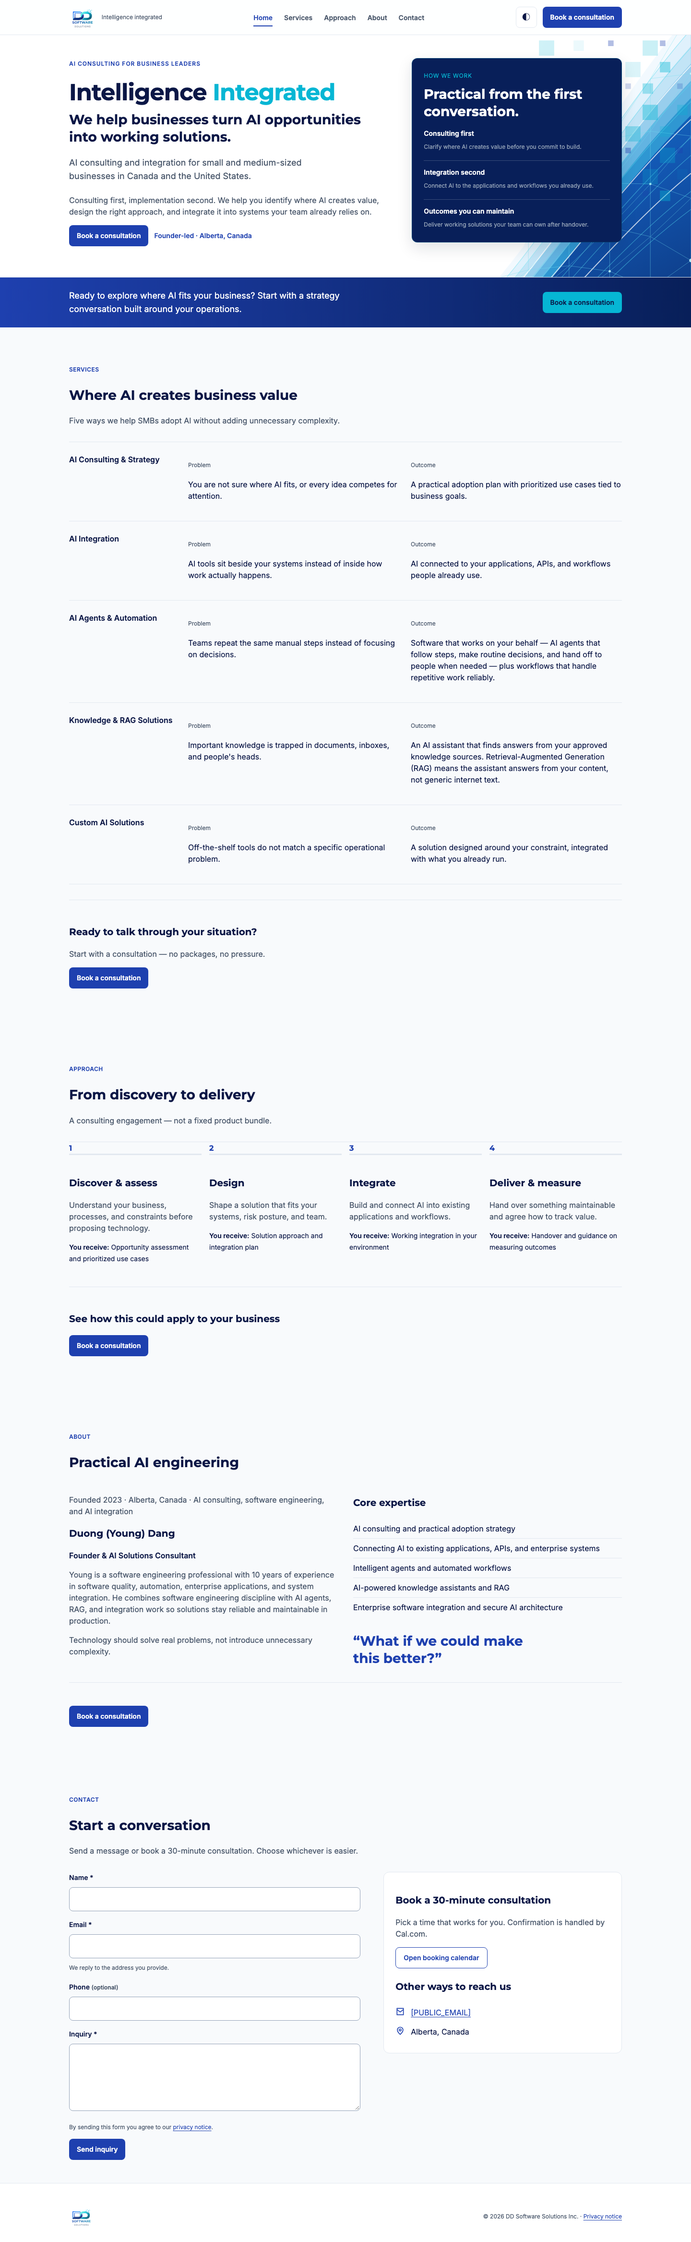
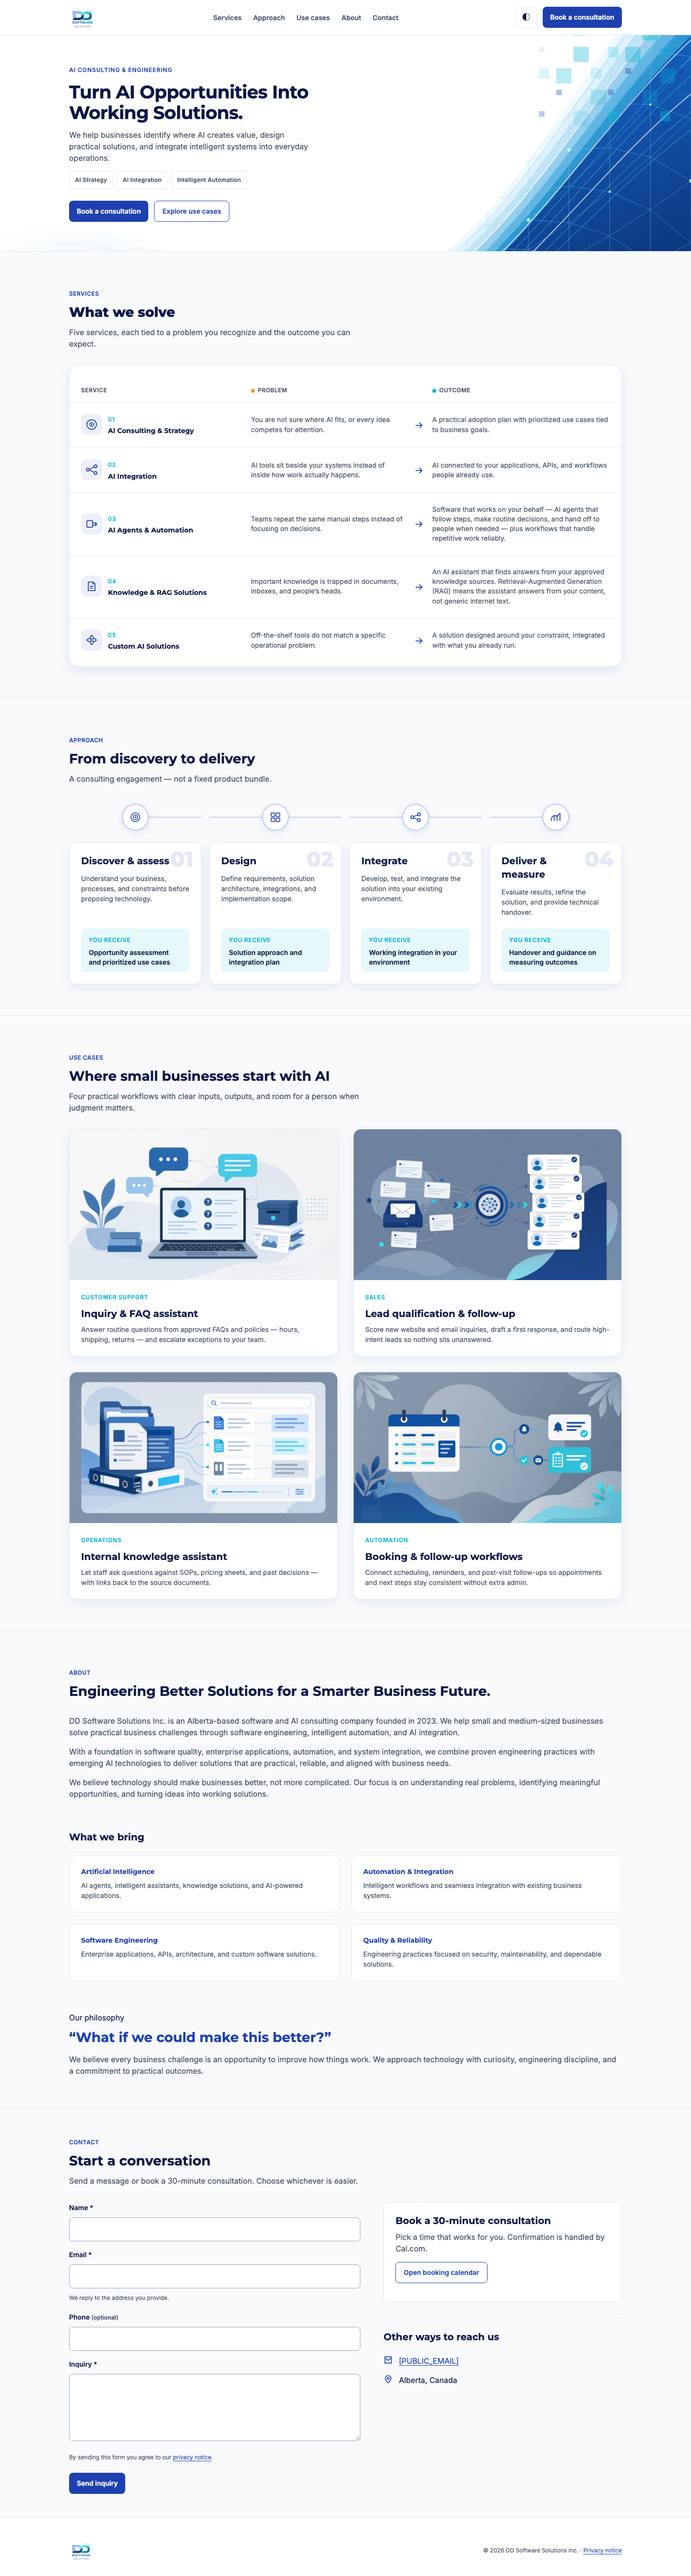
Polish company branding prototype for S2.3 fine-tune.
Hero banner as CSS background, section dark parity, restrained motion, contact markup fix, and refreshed UX screenshots.

diff --git a/prototype/styles/site.css b/prototype/styles/site.css
@@ -79,12 +79,35 @@ a:hover { color: var(--color-action-primary-hover); }
 }
 @media (min-width: 768px) { .nav-toggle { display: none; } }
 .mobile-nav {
-  display: none; padding: var(--space-4) var(--page-gutter) var(--space-5);
-  border-bottom: 1px solid var(--color-border-default);
+  display: block;
+  max-height: 0;
+  opacity: 0;
+  overflow: hidden;
+  padding: 0 var(--page-gutter);
+  border-bottom: 1px solid transparent;
   background: var(--color-surface-card);
+  transition:
+    max-height var(--motion-normal) var(--motion-ease),
+    opacity var(--motion-fast) var(--motion-ease),
+    padding var(--motion-normal) var(--motion-ease),
+    border-color var(--motion-fast) var(--motion-ease);
 }
-.mobile-nav.is-open { display: block; }
-@media (min-width: 768px) { .mobile-nav { display: none !important; } }
+.mobile-nav.is-open {
+  max-height: 24rem;
+  opacity: 1;
+  padding: var(--space-4) var(--page-gutter) var(--space-5);
+  border-bottom-color: var(--color-border-default);
+}
+@media (min-width: 768px) {
+  .mobile-nav,
+  .mobile-nav.is-open {
+    display: none !important;
+    max-height: none;
+    opacity: 0;
+    padding: 0;
+    border: none;
+  }
+}
 .mobile-nav ul { list-style: none; margin: 0; padding: 0; }
 .mobile-nav a {
   display: block; padding: var(--space-3) 0; font-weight: 600; color: var(--color-text-primary); text-decoration: none;
@@ -149,22 +172,18 @@ a:hover { color: var(--color-action-primary-hover); }
 [data-theme="dark"] .hero-banner {
   background-color: var(--color-navy-950);
 }
-.hero-banner__art {
+.hero-banner::before {
+  content: "";
   position: absolute;
   inset: 0;
   z-index: 0;
-  width: 100%;
-  height: 100%;
-  max-width: none;
-  /* Scale to full section width; crop vertically to the half-page box */
-  object-fit: cover;
-  object-position: center right;
+  background: url("../assets/banners/banner.svg") center right / cover no-repeat;
   pointer-events: none;
   user-select: none;
 }
-[data-theme="dark"] .hero-banner__art {
-  opacity: 0.9;
-  filter: saturate(1.05) brightness(0.92);
+[data-theme="dark"] .hero-banner::before {
+  opacity: 0.88;
+  filter: saturate(1.05) brightness(0.9);
 }
 .hero-banner::after {
   content: "";
@@ -198,6 +217,25 @@ a:hover { color: var(--color-action-primary-hover); }
 }
 .hero-banner__content {
   max-width: min(34rem, 46%);
+}
+@media (prefers-reduced-motion: no-preference) {
+  .hero-banner__content {
+    animation: hero-content-enter 520ms var(--motion-ease) both;
+  }
+}
+@media (prefers-reduced-motion: reduce) {
+  .hero-banner__content { animation: none; }
+  .use-case-card { transition: none; }
+}
+@keyframes hero-content-enter {
+  from {
+    opacity: 0;
+    transform: translateY(0.5rem);
+  }
+  to {
+    opacity: 1;
+    transform: none;
+  }
 }
 .hero-banner__eyebrow {
   font-size: var(--text-caption-size); font-weight: 600; letter-spacing: 0.08em;
@@ -239,7 +277,7 @@ a:hover { color: var(--color-action-primary-hover); }
 .hero-banner__actions { display: flex; flex-wrap: wrap; gap: var(--space-3); align-items: center; }
 @media (max-width: 639px) {
   .hero-banner__content { max-width: 100%; }
-  .hero-banner__art { object-position: center center; }
+  .hero-banner::before { background-position: 68% center; }
   .hero-banner::after {
     background: linear-gradient(
       180deg,
@@ -262,14 +300,19 @@ a:hover { color: var(--color-action-primary-hover); }
 [data-theme="dark"] .pull-quote { color: var(--color-brand-cyan); }
 
 /* Section */
-.section { padding-block: var(--space-8); scroll-margin-top: var(--header-height); }
-.section--tight { padding-block: var(--space-7); }
+.section { padding-block: clamp(var(--space-7), 8vw, var(--space-8)); scroll-margin-top: var(--header-height); }
+.section--tight { padding-block: clamp(var(--space-6), 6vw, var(--space-7)); }
 main > section + section {
   border-top: 1px solid var(--color-border-default);
 }
+[data-theme="dark"] main > section + section {
+  border-top-color: color-mix(in srgb, var(--color-border-default) 85%, transparent);
+}
 .section-heading { margin-bottom: var(--space-6); max-width: none; width: 100%; }
+.section-heading .h2 { margin: 0; }
 .section-heading .label { font-size: var(--text-caption-size); font-weight: 600; color: var(--color-action-primary); text-transform: uppercase; letter-spacing: 0.04em; margin-bottom: var(--space-2); }
-.section-heading .muted { margin: var(--space-2) 0 0; max-width: none; }
+[data-theme="dark"] .section-heading .label { color: var(--color-brand-cyan); }
+.section-heading .muted { margin: var(--space-3) 0 0; max-width: min(40rem, 100%); }
 .consultation-cta { margin-top: var(--space-6); padding-top: var(--space-6); border-top: 1px solid var(--color-border-default); }
 
 /* Services — problem → outcome table */
@@ -284,6 +327,10 @@ main > section + section {
   box-shadow: 0 8px 24px color-mix(in srgb, var(--color-brand-deep-blue) 10%, transparent);
   overflow: hidden;
   padding-top: var(--space-5);
+}
+[data-theme="dark"] .services-table {
+  box-shadow: 0 12px 32px rgba(0, 0, 0, 0.35);
+  border-color: color-mix(in srgb, var(--color-border-default) 90%, var(--color-brand-cyan) 10%);
 }
 .services-table__head,
 .services-table__row {
@@ -467,6 +514,10 @@ main > section + section {
   box-shadow: 0 8px 22px color-mix(in srgb, var(--color-brand-deep-blue) 8%, transparent);
   overflow: hidden;
 }
+[data-theme="dark"] .approach-stage__card {
+  box-shadow: 0 10px 26px rgba(0, 0, 0, 0.32);
+  border-color: color-mix(in srgb, var(--color-border-default) 88%, transparent);
+}
 .approach-stage__num {
   position: absolute;
   top: var(--space-3);
@@ -542,6 +593,21 @@ main > section + section {
   border-radius: 16px;
   overflow: hidden;
   box-shadow: 0 8px 22px color-mix(in srgb, var(--color-brand-deep-blue) 8%, transparent);
+  transition: transform var(--motion-fast) var(--motion-ease), box-shadow var(--motion-fast) var(--motion-ease);
+}
+@media (prefers-reduced-motion: no-preference) {
+  @media (hover: hover) {
+    .use-case-card:hover {
+      transform: translateY(-2px);
+      box-shadow: 0 12px 28px color-mix(in srgb, var(--color-brand-deep-blue) 14%, transparent);
+    }
+    [data-theme="dark"] .use-case-card:hover {
+      box-shadow: 0 14px 32px rgba(0, 0, 0, 0.42);
+    }
+  }
+}
+[data-theme="dark"] .use-case-card {
+  box-shadow: 0 10px 26px rgba(0, 0, 0, 0.32);
 }
 .use-case-card__media {
   width: 100%;
@@ -616,6 +682,9 @@ main > section + section {
   border: 1px solid var(--color-border-default);
   border-radius: 14px;
 }
+[data-theme="dark"] .about-bring__grid li {
+  background: color-mix(in srgb, var(--color-surface-card) 92%, var(--color-navy-950) 8%);
+}
 .about-bring__title {
   margin: 0 0 var(--space-2);
   font-family: var(--font-display);
@@ -654,7 +723,14 @@ main > section + section {
   font: inherit; color: var(--color-text-primary); background: var(--color-surface-card);
 }
 .form-field textarea { min-height: 140px; resize: vertical; }
-.form-field input:focus, .form-field textarea:focus { border-color: var(--color-border-focus); outline: none; box-shadow: 0 0 0 3px rgba(30, 64, 175, 0.15); }
+.form-field input:focus, .form-field textarea:focus {
+  border-color: var(--color-border-focus);
+  outline: none;
+  box-shadow: 0 0 0 3px color-mix(in srgb, var(--color-border-focus) 22%, transparent);
+}
+.inquiry-form .btn--primary {
+  margin-top: var(--space-2);
+}
 .form-field.is-error input, .form-field.is-error textarea { border-color: var(--color-status-error); background: var(--color-status-error-bg); }
 .form-field__error { display: none; font-size: var(--text-caption-size); color: var(--color-status-error); margin-top: var(--space-2); }
 .form-field.is-error .form-field__error { display: block; }
@@ -662,17 +738,37 @@ main > section + section {
 .status-message { padding: var(--space-4); border-radius: var(--radius-md); margin-bottom: var(--space-4); }
 .status-message--success { background: var(--color-status-success-bg); color: var(--color-status-success); }
 .status-message--error { background: var(--color-status-error-bg); color: var(--color-status-error); }
-.booking-panel { padding: var(--space-5); border: 1px solid var(--color-border-default); border-radius: var(--radius-lg); background: var(--color-surface-card); }
+.booking-panel {
+  padding: var(--space-5);
+  border: 1px solid var(--color-border-default);
+  border-radius: var(--radius-lg);
+  background: var(--color-surface-card);
+}
 .booking-panel.is-unavailable { opacity: 0.85; }
-.contact-details { margin-top: var(--space-5); }
+.booking-panel .h3 { margin: 0 0 var(--space-2); }
+.booking-panel > .muted { margin: 0 0 var(--space-4); }
+.contact-details { margin-top: var(--space-6); padding-top: var(--space-5); border-top: 1px solid var(--color-border-default); }
+.contact-details .h3 { margin: 0 0 var(--space-2); }
 .contact-details ul { list-style: none; margin: var(--space-4) 0 0; padding: 0; }
 .contact-details li { display: flex; gap: var(--space-3); align-items: flex-start; padding: var(--space-2) 0; }
 .contact-details svg { width: 20px; height: 20px; flex-shrink: 0; color: var(--color-action-primary); }
 .privacy-note { font-size: var(--text-caption-size); color: var(--color-text-secondary); margin-top: var(--space-3); }
 
 /* SiteFooter */
-.site-footer { padding: var(--space-7) 0 var(--space-6); border-top: 1px solid var(--color-border-default); background: var(--color-surface-card); }
-.site-footer__inner { display: flex; flex-wrap: wrap; gap: var(--space-4); justify-content: space-between; align-items: center; }
+.site-footer {
+  padding: var(--space-7) 0 var(--space-6);
+  border-top: 1px solid var(--color-border-default);
+  background: var(--color-surface-card);
+}
+[data-theme="dark"] .site-footer {
+  background: color-mix(in srgb, var(--color-surface-card) 96%, var(--color-navy-950) 4%);
+}
+.site-footer__inner { display: flex; flex-wrap: wrap; gap: var(--space-4) var(--space-5); justify-content: space-between; align-items: center; }
+.site-footer__inner .caption { text-align: right; }
+@media (max-width: 479px) {
+  .site-footer__inner { flex-direction: column; align-items: flex-start; }
+  .site-footer__inner .caption { text-align: left; }
+}
 .site-footer__logo { display: block; height: 2.5rem; width: auto; max-width: 10rem; object-fit: contain; opacity: 0.92; }
 .site-footer__logo--on-dark { display: none; height: 2rem; max-width: 8.5rem; opacity: 1; }
 [data-theme="dark"] .site-footer__inner > .site-footer__logo:first-of-type { display: none; }

diff --git a/prototype/pages/index.html b/prototype/pages/index.html
@@ -43,7 +43,6 @@
   </header>
   <main>
     <section id="home" class="hero-banner section--flush" aria-labelledby="home-heading">
-      <img class="hero-banner__art" src="../assets/banners/banner.svg" width="1304" height="848" alt="" decoding="async" />
       <div class="container hero-banner__layout">
         <div class="hero-banner__content">
           <p class="hero-banner__eyebrow">AI consulting &amp; engineering</p>
@@ -307,7 +306,11 @@
     </section>
     <section id="contact" class="section section--tight">
       <div class="container">
-        <div class="section-heading"><p class="label">Contact</p><h2 class="h2">Start a conversation</h2><p class="muted">Send a message or book a 30-minute consultation. Choose whichever is easier.</p></div>
+        <div class="section-heading">
+          <p class="label">Contact</p>
+          <h2 class="h2">Start a conversation</h2>
+          <p class="muted">Send a message or book a 30-minute consultation. Choose whichever is easier.</p>
+        </div>
         <div class="contact-layout">
           
           <form class="inquiry-form" id="inquiry-form" action="#" method="post" novalidate>
@@ -337,7 +340,7 @@
               <h3 class="h3">Book a 30-minute consultation</h3>
               <p class="muted">Pick a time that works for you. Confirmation is handled by Cal.com.</p>
               <p><a class="btn btn--secondary" href="[BOOKING_URL]" rel="noopener noreferrer">Open booking calendar</a></p>
-            
+            </div>
             <div class="contact-details">
               <h3 class="h3">Other ways to reach us</h3>
               <ul>

diff --git a/prototype/stories/mobile-nav-open.html b/prototype/stories/mobile-nav-open.html
@@ -4,7 +4,7 @@
   <meta charset="utf-8" /><meta name="viewport" content="width=device-width, initial-scale=1" />
   <title>Mobile navigation open</title>
   <link rel="stylesheet" href="../styles/site.css" />
-  <style>.mobile-nav { display: block; }</style>
+  <style>.mobile-nav { display: block; max-height: 24rem; opacity: 1; padding: var(--space-4) var(--page-gutter) var(--space-5); border-bottom-width: 1px; }</style>
 </head>
 <body class="page">
   <p class="prototype-banner">Mobile nav open state · <a href="../shell/index.html">Flows</a></p>
@@ -15,9 +15,9 @@
     </div>
     <div id="mobile-nav" class="mobile-nav is-open">
       <ul>
-        <li><a href="../pages/index.html#home" aria-current="true">Home</a></li>
-        <li><a href="../pages/index.html#services">Services</a></li>
+        <li><a href="../pages/index.html#services" aria-current="true">Services</a></li>
         <li><a href="../pages/index.html#approach">Approach</a></li>
+        <li><a href="../pages/index.html#use-cases">Use cases</a></li>
         <li><a href="../pages/index.html#about">About</a></li>
         <li><a href="../pages/index.html#contact">Contact</a></li>
       </ul>

diff --git a/docs/company-branding-website/ux/UX-BRIEF.md b/docs/company-branding-website/ux/UX-BRIEF.md
@@ -1,7 +1,7 @@
 # UX Brief
 
 - Started by: G1 decision D9 (2026-11-24) confirmed design **trigger 1, Greenfield UI**: the product has no UI and no design system. Baseline: `docs/baselines/prds/PRD-v1.0.md`. Profile: Standard. G2 stops for the design system and visual identity (trigger 1); no T3 screen; tiers are not a G2 decision in Standard but are listed for the human.
-- Status: S2.3 **G3 Revise (D13)** hero background on `ux/company-branding-website` — `banner.svg` as CSS hero background (no baked-in copy); `primary-logo.svg` (+ dark swap); home screenshots re-captured. Hand to design-lead S2.4 (not self-validated).
+- Status: S2.3 **fine-tune polish** on `ux/company-branding-website` — hero `banner.svg` on `::before` (no `<img>`); spacing/type rhythm, dark parity on sections/cards/footer, restrained motion (mobile nav, hero enter, use-case hover); contact markup fix; screenshots re-captured. Hand to design-lead S2.4 (not self-validated).
 - `docs/COMPONENTS.md`: does not exist (greenfield). Every component below is new.
 
 ## A. Screens and tiers
@@ -113,11 +113,12 @@ None: the PRD fixes the structure (single page, five sections), and the brand co
 | Primary navigation | desktop current-section, mobile open | `prototype/pages/index.html`, `prototype/stories/mobile-nav-open.html` |
 | Button | primary, secondary, link, disabled, loading | `prototype/stories/button-states.html` |
 
-- Layout concepts (implemented): **Home hero banner** (`prototype/assets/banners/banner.svg` as **CSS background** on `.hero-banner` — `cover`, positioned for wave art lower in frame; left scrim for copy contrast in light/dark; accessible HTML for “Intelligence Integrated” + PRD headline, navy “How we work” card, compact campaign strip); Services ruled list with problem/outcome columns; Approach numbered 1–4 track; About two-column text without portrait; Contact form-first with booking aside on desktop; **ThemeToggle** in header on index/privacy/not-found; site logo `prototype/assets/logos/primary-logo.svg` (dark header/footer: `white-horizontal-logo.svg` swap).
+- Layout concepts (implemented): **Home hero banner** (`prototype/assets/banners/banner.svg` on `.hero-banner::before` — `cover`, right-weighted art; `::after` left scrim for copy contrast in light/dark; half-viewport height; PRD headline, tags, dual CTAs — no baked-in banner copy); Services ruled list with problem/outcome columns; Approach numbered 1–4 track; About two-column text without portrait; Contact form-first with booking aside on desktop; **ThemeToggle** in header on index/privacy/not-found; site logo `prototype/assets/logos/primary-logo.svg` (dark header/footer: `white-horizontal-logo.svg` swap).
 - Simulated: form submit latency **~800 ms** (`DDPrototypeMocks.inquiryLatencyMs` in shell mocks only; story pages use static HTML for each state). E3 spam-rejected story (`contact-spam-rejected.html`) shows **no success confirmation** per BR-07; final copy/mechanism still for architect (R3). Placeholders `[INQUIRY_EMAIL]`, `[PUBLIC_EMAIL]`, `[BOOKING_URL]`, `[PUBLIC_PHONE]`, `[LINKEDIN_URL]` per BR-09. Privacy text is a structural draft (FR-11). No analytics script in the prototype.
 - **G3 Revise D11 (2026-11-25):** rebuilt Home for Figma banner fidelity; added dark theme tokens + toggle; downloaded wave asset from Figma banners board; re-captured screenshots including `home-idle-dark-*`.
 - **G3 Revise D12 (2026-11-25):** per human — hero banner `prototype/assets/banners/light-banner.svg`; logo `prototype/assets/logos/primary-logo.svg` site-wide (dark: `white-horizontal-logo.svg` in header/footer); re-captured `home-idle-*` screenshots.
 - **G3 Revise D13 (2026-11-25):** per human — hero uses `prototype/assets/banners/banner.svg` as **background only** (removed `light-banner.svg` img/grid stack); copy/card layout adjusted for upper-left readability over wave art; dark via scrim + reduced banner opacity on `::before`; re-captured `home-idle-*` at 390/1440.
+- **S2.3 fine-tune (2026-11-25):** polish pass — CSS-only hero art (`::before`), section rhythm + dark separators/shadows, mobile nav height/opacity transition, hero content fade-in + use-case hover (off under reduced motion); booking panel `</div>` fix; mobile-nav story aligned to primary nav; full screenshot set refreshed via `capture-screenshots.py`.
 - API data assumed: unchanged from S2.1 plan (`{ name, email, phone?, message }` → sent | field errors | delivery failure | spam-rejected; Cal.com URL; static section copy).
 - UI checks: `docs/ENGINEERING-STANDARDS.md` does not exist — **no named UI checks**; manual walk-through of shell flows and viewport screenshots at 390px and 1440px widths.
 - Screenshots: `docs/company-branding-website/ux/screens/*-{mobile,desktop}.png` (key states listed in orchestrator handoff).
